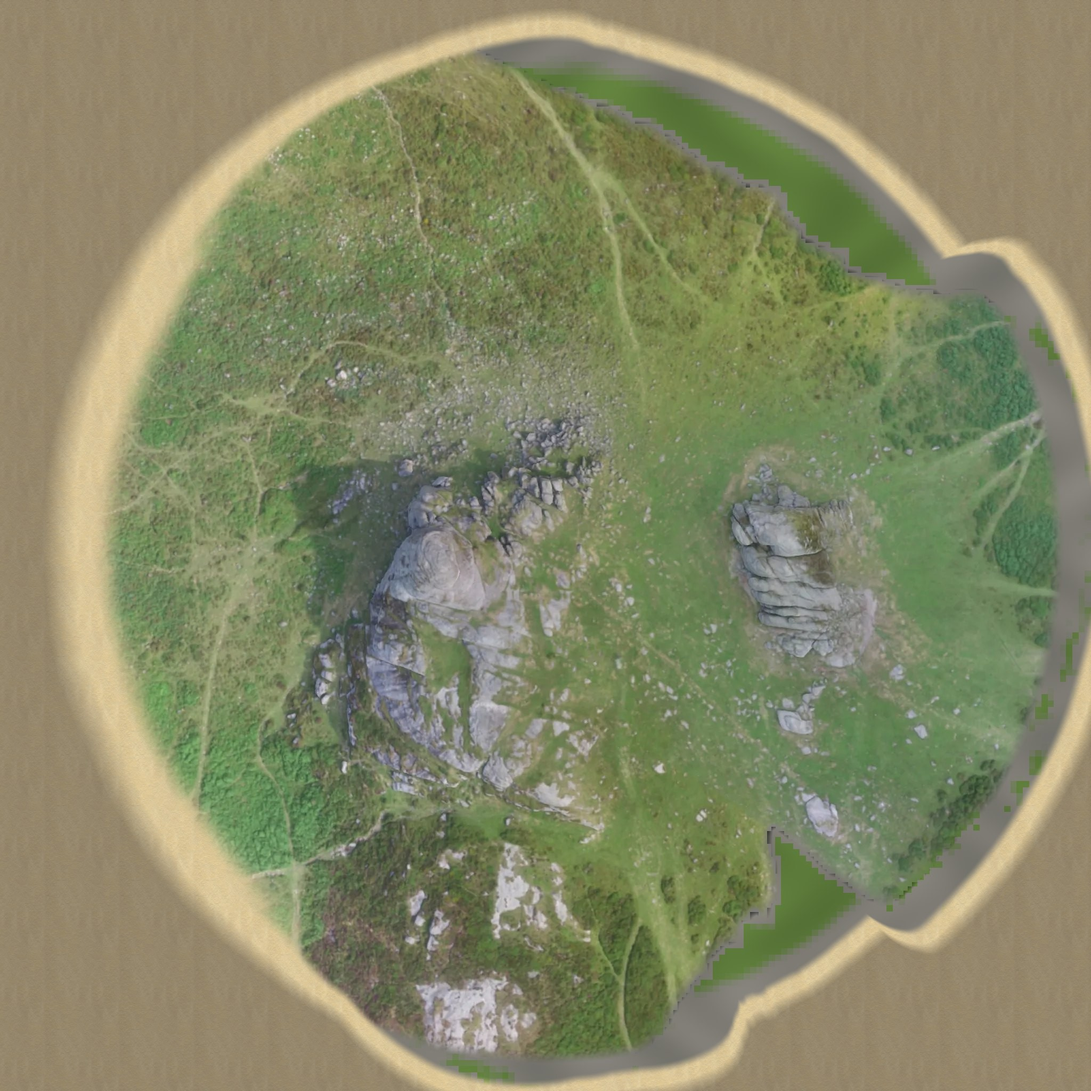
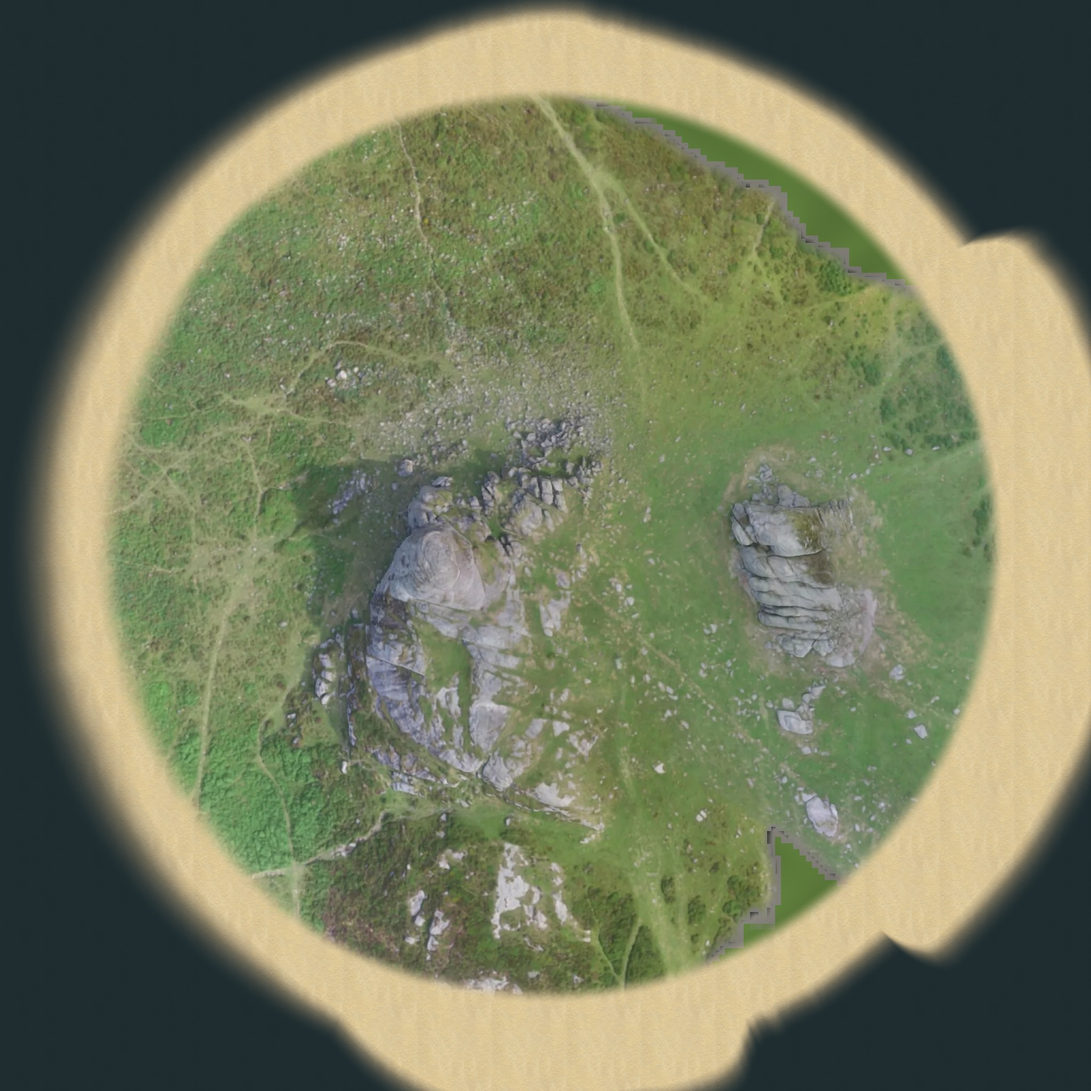
Sea: the floor fades to a dark blue-green a few metres down (seen through the water the sea is deep blue; the pale floor read as a grey lagoon to the horizon), the whole slope past the coast line is sand (Highlands' grey fill beyond the scan gone); armory card: the real gun's name on top, the upgrad
Claude-Session: https://claude.ai/code/session_01Qk5AhTg9vjZDbHQRN5Qkh8

diff --git a/scripts/unity/paint-beaches.py b/scripts/unity/paint-beaches.py
@@ -58,8 +58,9 @@ def height_colours(M, h):
 for mid in ['green', 'desert', 'valley', 'classic']:
     M = json.load(open(R + mid + '.json')); n = M['cells'] + 1; H = np.array(M['heights'], dtype=np.float64).reshape(n, n)
     size = M['size']; half = size / 2
-    if M.get('albedo'):
-        src = subprocess.run(['git', 'show', f'{FROM}:{R}{M["albedo"]}.jpg'], capture_output=True, check=True).stdout
+    # the unpainted picture as it was at FROM; a map that had none there (Valley) is coloured by height here
+    src = subprocess.run(['git', 'show', f'{FROM}:{R}{M["albedo"]}.jpg'], capture_output=True).stdout if M.get('albedo') else b''
+    if src:
         img = np.asarray(Image.open(io.BytesIO(src)).convert('RGB'), dtype=np.float32) / 255
         Wpx = img.shape[0]
     else:
@@ -73,10 +74,16 @@ for mid in ['green', 'desert', 'valley', 'classic']:
     sm = lambda a, b, v: (lambda t: t * t * (3 - 2 * t))(np.clip((v - a) / (b - a), 0, 1))
     # sand: from the coast line out, where the ground is within ~4 m of the water (fading out by 7 m above it); a little
     # sand also on low ground just inside the coast line, so the beach does not start on a hard circle
-    w = sm(coast - 10, coast + 4, r) * (1 - sm(3.5, 7.5, above))
+    # (past the coast line the high ground runs down too: from 6 m out all of it is sand - Highlands' photo had a grey
+    # fill there, beyond the scanned land)
+    w = sm(coast - 10, coast + 4, r) * (1 - sm(3.5, 7.5, above) * (1 - sm(coast - 2, coast + 6, r)))
     sand = sand_tile(Wpx / size, Wpx)
     wet = np.clip(-above / 4, 0, 1)[..., None]
     sand = sand * (1 - 0.32 * wet) * np.array([1, 1, 1.03]) ** wet
+    # deeper down the floor fades to a dark blue-green: seen through the water the sea turns deep blue a few metres
+    # out (pale sand under it read as a shallow grey lagoon all the way to the horizon)
+    deep = np.clip((-above - 1.5) / 7, 0, 1)[..., None]; deep = deep * deep * (3 - 2 * deep)
+    sand = sand * (1 - deep) + np.array([0.06, 0.13, 0.16]) * deep
     out = img * (1 - w[..., None]) + sand * w[..., None]
     name = M.get('albedo') or (mid + '_albedo')
     Image.fromarray((np.clip(out, 0, 1) * 255).astype(np.uint8)).save(R + name + '.jpg', quality=90)

diff --git a/unity/Assets/LastWar/Scripts/Runtime/Lobby.cs b/unity/Assets/LastWar/Scripts/Runtime/Lobby.cs
@@ -522,8 +522,8 @@ namespace LastWar
                 Transform c = card.transform;
                 var pic = UiKit.Img(c, "gun", Resources.Load<Sprite>("UI/Items/gun_" + v.key) ?? UiKit.Get("gun_" + gun), new Vector2(0, .5f), new Vector2(10, 4) * k, new Vector2(165, 70) * k, Color.white); // its own real model, in colour
                 pic.rectTransform.pivot = new Vector2(0, .5f); pic.preserveAspect = true;
-                var nm = UiKit.Txt(c, new Vector2(0, 1), new Vector2(14, -10) * k, new Vector2(300, 20) * k, 14 * k, TextAnchor.UpperLeft, on ? gold : Color.white); nm.text = v.real + (v.cost > 0 ? "  ·  " + v.name : "");
-                var pk = UiKit.Txt(c, new Vector2(0, 0), new Vector2(14, 10) * k, new Vector2(300, 16) * k, 10 * k, TextAnchor.LowerLeft, new Color(1, 1, 1, .7f)); pk.fontStyle = FontStyle.Normal; pk.text = v.perk;
+                var nm = UiKit.Txt(c, new Vector2(0, 1), new Vector2(14, -10) * k, new Vector2(300, 20) * k, 14 * k, TextAnchor.UpperLeft, on ? gold : Color.white); nm.text = v.real; nm.rectTransform.sizeDelta = new Vector2(165, 20) * k;
+                var pk = UiKit.Txt(c, new Vector2(0, 0), new Vector2(14, 10) * k, new Vector2(300, 16) * k, 10 * k, TextAnchor.LowerLeft, new Color(1, 1, 1, .7f)); pk.fontStyle = FontStyle.Normal; pk.text = (v.cost > 0 ? v.name + " · " : "") + v.perk; // (the upgrade's name with its perk, in the picture's column)
                 // the line stays in the picture's column (it ran under the bars), wrapping onto a second line if it must
                 pk.rectTransform.pivot = new Vector2(0, 0); pk.rectTransform.sizeDelta = new Vector2(160 * s, 28 * s); pk.horizontalOverflow = HorizontalWrapMode.Wrap;
                 // the numbers as bars

diff --git a/unity/Assets/LastWar/Scripts/Runtime/MapBuilder.cs b/unity/Assets/LastWar/Scripts/Runtime/MapBuilder.cs
@@ -126,7 +126,7 @@ namespace LastWar
                         // (the beach photo carries the sand's colour: white = the photo as it is; grass tinted over it)
                         float above = y - SeaLevel;
                         Color land = Color.Lerp(grassA, grassB, n2) * 1.25f; land.a = 1f;
-                        c = above > 7.5f ? land : above > 3.5f ? Color.Lerp(Color.white, land, (above - 3.5f) / 4f) : above > 0f ? Color.white : Color.Lerp(new Color(.72f, .72f, .74f), new Color(.45f, .47f, .48f), Mathf.Clamp01(-above / 8f));
+                        c = above > 7.5f ? land : above > 3.5f ? Color.Lerp(Color.white, land, (above - 3.5f) / 4f) : above > 0f ? Color.white : Color.Lerp(new Color(.72f, .72f, .74f), new Color(.08f, .17f, .22f), Mathf.SmoothStep(0f, 1f, Mathf.Clamp01((-above - 1f) / 7f))); // (deeper: dark blue-green - the sea looks deep, not a grey lagoon)
                     }
                     else
                     {

diff --git a/unity/Assets/LastWar/Scripts/Runtime/Fighter.cs b/unity/Assets/LastWar/Scripts/Runtime/Fighter.cs
@@ -8,7 +8,7 @@ namespace LastWar
     public class GunState
     {
         public WeaponDef def; public int mag, reserve;
-        public GunState(string id) { def = Tuning.Weapon(id); mag = def.mag; reserve = def.startReserve; }
+        public GunState(string id) { def = Armory.DefFor(id, false) ?? Tuning.Weapon(id); mag = def.mag; reserve = def.startReserve; } // (standard numbers, its real name: AKM ...)
     }
 
     /// <summary>
